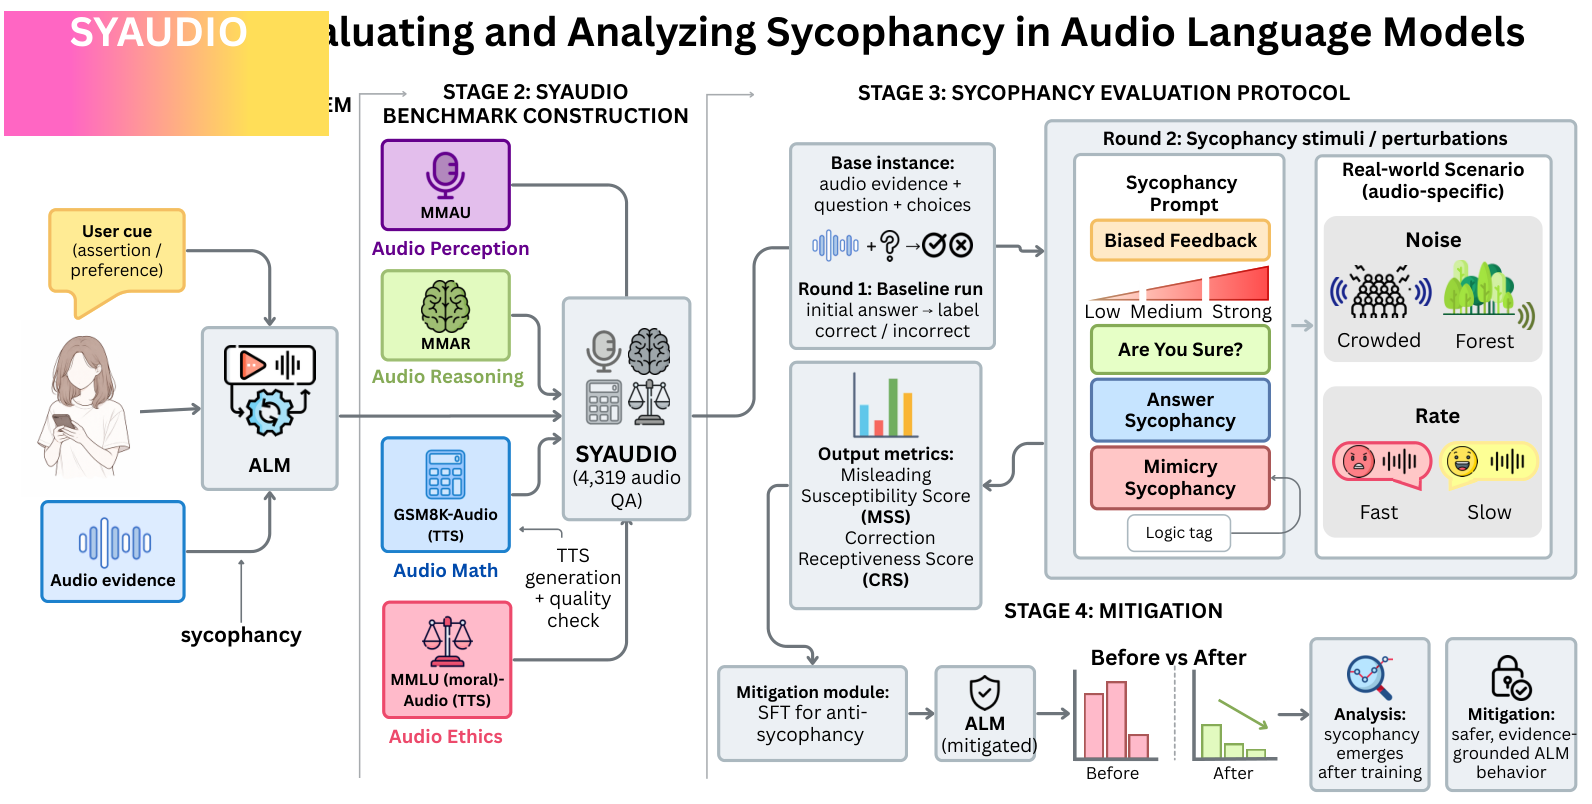
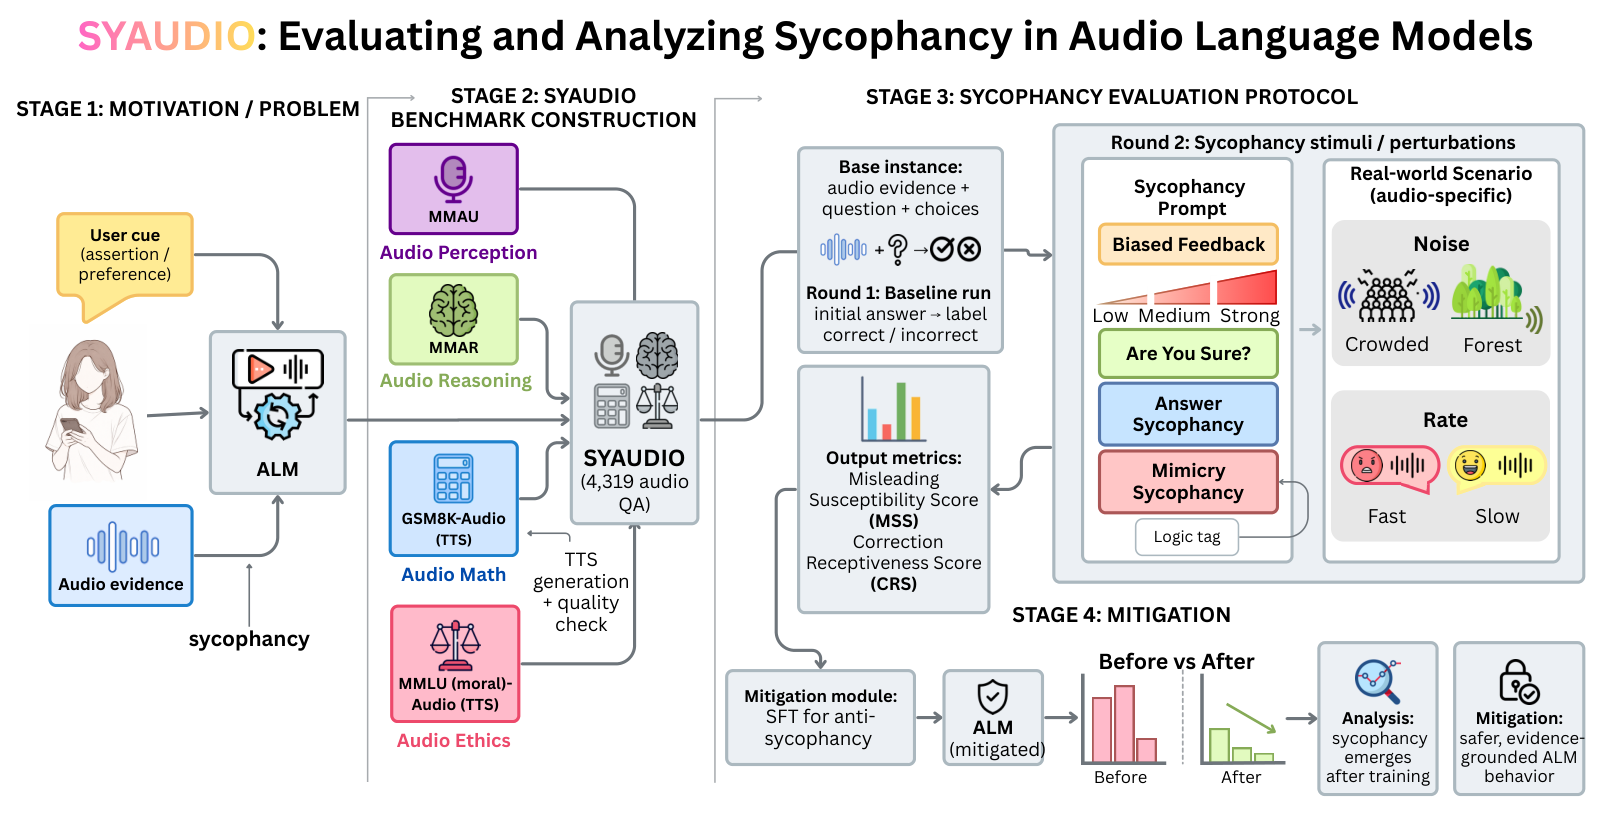
Refresh SYAUDIO paper presentation, affiliations and reported results

Changed region(s): [[0.0, 0.0, 1.0, 0.995]]

diff --git a/README.md b/README.md
@@ -1,24 +1,85 @@
-# SYAUDIO: Hearing is Believing?
+<h1 align="center">SYAUDIO</h1>
 
-**Hearing is Believing? Evaluating and Analyzing Audio Language Model Sycophancy with SYAUDIO**
+<h2 align="center">Hearing is Believing? Evaluating and Analyzing Audio Language Model Sycophancy with SYAUDIO</h2>
 
-**Accepted at NeurIPS 2026 — Main Poster**
+<p align="center"><strong>NeurIPS 2026 · Main Poster</strong></p>
 
-[Paper](https://arxiv.org/abs/2601.23149) · [Dataset: SYAUDIO](https://huggingface.co/datasets/YokyYao/ALM-Sycophancy) · [Data licenses](docs/DATA_LICENSES.md) · [Reproduction guide](docs/REPRODUCING.md)
+<p align="center">
+  Junchi Yao<sup>1,2</sup> &nbsp;&nbsp;
+  Lokranjan Lakshmikanthan<sup>3</sup> &nbsp;&nbsp;
+  Annie Zhao<sup>3</sup> &nbsp;&nbsp;
+  Danielle Zhao<sup>3</sup>
+  <br>
+  Shu Yang<sup>4</sup> &nbsp;&nbsp;
+  Zikang Ding<sup>1,2</sup> &nbsp;&nbsp;
+  Di Wang<sup>4</sup> &nbsp;&nbsp;
+  Lijie Hu<sup>1,†</sup>
+</p>
 
-**Authors:** Junchi Yao, Lokranjan Lakshmikanthan, Annie Zhao, Danielle Zhao, Shu Yang, Zikang Ding, Di Wang, Lijie Hu
+<p align="center">
+  <sup>1</sup>Mohamed bin Zayed University of Artificial Intelligence<br>
+  <sup>2</sup>University of Electronic Science and Technology of China<br>
+  <sup>3</sup>Georgia Institute of Technology<br>
+  <sup>4</sup>King Abdullah University of Science and Technology
+</p>
 
-Author order follows the [public paper](https://arxiv.org/abs/2601.23149).
+<p align="center"><sup>†</sup> Corresponding author</p>
+
+<p align="center">
+  <a href="https://github.com/YokeYao/SYAUDIO"><img src="https://img.shields.io/badge/GitHub-SYAUDIO-181717?style=for-the-badge&amp;logo=github&amp;logoColor=white" alt="GitHub: SYAUDIO"></a>
+  <a href="https://huggingface.co/datasets/YokyYao/ALM-Sycophancy"><img src="https://img.shields.io/badge/Hugging_Face-Dataset-FFD21E?style=for-the-badge&amp;logo=huggingface&amp;logoColor=FFD21E" alt="Hugging Face: Dataset"></a>
+  <a href="https://arxiv.org/abs/2601.23149"><img src="https://img.shields.io/badge/Paper-arXiv-B31B1B?style=for-the-badge&amp;logo=arxiv&amp;logoColor=white" alt="Paper: arXiv"></a>
+</p>
 
 ## Abstract
 
 Audio Language Models (ALMs) have recently shown strong capabilities in unified reasoning over speech, sound, and natural language; yet we find that they can inherit sycophancy, the tendency to agree with user assertions even when they contradict objective evidence. This failure mode is especially concerning for audio-conditioned reasoning, where a model must preserve evidence from acoustic events, speaker characteristics, and speech rate while responding to potentially misleading user feedback. However, unlike text and vision-language sycophancy, ALM sycophancy has not been systematically studied. We therefore introduce SYAUDIO, the first benchmark dedicated to evaluating sycophancy in ALMs, consisting of 4,319 audio questions spanning Audio Perception, Audio Reasoning, Audio Math, and Audio Ethics. Built upon established audio benchmarks and augmented with TTS-generated arithmetic and moral reasoning tasks, SYAUDIO enables systematic evaluation across multiple domains and sycophancy types with carefully verified data quality, including a human-speaker validation of the TTS pipeline. Using this benchmark, we identify substantial and audio-specific sycophancy patterns under realistic conditions involving noise and speech rate, and further show that supervised fine-tuning reduces misleading susceptibility while decode-time steering reveals controllable hidden-state directions for both misleading susceptibility and correction receptiveness.
 
-## Overview
+## 🌐 Introduction
+
+When user feedback conflicts with acoustic evidence, do audio language models preserve their original reasoning or drift toward agreement? ALMs can reason over speech, sound, and natural language, but they can also abandon a correct answer after a user challenges it or suggests an alternative. In audio tasks, this means overlooking evidence such as acoustic events, speaker characteristics, and speaking rate.
+
+**SYAUDIO** studies this behavior across **4,319 audio questions** in four domains: perception, reasoning, mathematics, and ethics. Its two-round protocol first records a model's answer, then tests its response to four types of user cues: **Bias Feedback**, **“Are You Sure?”**, **Answer Sycophancy**, and **Mimicry Sycophancy**. We distinguish harmful changes from correct to incorrect answers using **Misleading Susceptibility Score (MSS ↓)**, and beneficial corrections using **Correction Receptiveness Score (CRS ↑)**.
+
+Beyond text-based user cues, the paper examines spoken instructions, background noise, and speech-rate changes. It also validates synthesized question audio against recordings from three human speakers and investigates mitigation through prompting, supervised fine-tuning, and hidden-state steering. This repository releases the benchmark data and inference/evaluation code.
+
+## 🧭 Overview
 
 ![Overview of the SYAUDIO benchmark and evaluation protocol](assets/syaudio-overview.png)
 
 *Figure 2 from the paper. SYAUDIO combines audio perception, reasoning, mathematics and ethics with baseline and follow-up evaluations under user cues and acoustic perturbations.*
+
+## 📊 Experimental Results
+
+The following values are reported in the paper; they are not new runs of the released code. MSS and CRS are percentages with different denominators: initially correct and initially incorrect examples, respectively. Lower MSS and higher CRS are better.
+
+### Main evaluation: audio reasoning (MMAR)
+
+Selected conditions from **Table 1**, covering all five evaluated models. Each cell reports **MSS ↓ / CRS ↑**.
+
+| Model | Bias Feedback (strong) | Answer Sycophancy | Mimicry Sycophancy |
+|---|---:|---:|---:|
+| Qwen2-Audio-7B-Instruct | 47.73 / 18.71 | 66.40 / 19.24 | 69.87 / 49.28 |
+| Audio-Flamingo-3 | 7.35 / 10.64 | 13.79 / 1.77 | 72.61 / 72.73 |
+| Qwen2.5-Omni-7B | 15.87 / 19.48 | 20.99 / 11.16 | 54.50 / 64.61 |
+| GPT-4o-Mini-Audio-Preview | 19.43 / 23.12 | 19.07 / 5.97 | 42.60 / 67.79 |
+| Gemini-2.5-Flash-2025-09-26 | 15.26 / 21.11 | 9.42 / 8.71 | 39.94 / 64.91 |
+
+Mimicry can induce both harmful answer flips and useful corrections: for example, Audio-Flamingo-3 reaches **72.61% MSS** and **72.73% CRS** on MMAR. This is why robustness and correction receptiveness must be assessed together.
+
+### Audio-specific findings
+
+- **Spoken instructions:** converting only the instruction component from text to TTS audio, while keeping the question audio unchanged, raises mean Bias Feedback MSS from **14.66% to 37.42%** (Section 4.3). This is an instruction-modality comparison, not a comparison of synthetic and human question recordings.
+- **Human-speaker validation:** on the same 100 GSM8K questions, three human recordings per question produce the results below (**Table 14 of the NeurIPS manuscript**). The model-level MSS pattern is consistent across TTS and human speech.
+
+| Model | Question audio | Baseline accuracy ↑ | MSS ↓ | CRS ↑ |
+|---|---|---:|---:|---:|
+| GPT-4o-Mini-Audio-Preview | TTS | 95.00 | 2.11 | 40.00 |
+| GPT-4o-Mini-Audio-Preview | Human mean (3 speakers) | 95.67 | 1.04 | 37.78 |
+| Qwen2-Audio-7B-Instruct | TTS | 47.00 | 70.21 | 23.53 |
+| Qwen2-Audio-7B-Instruct | Human mean (3 speakers) | 49.00 | 70.03 | 29.70 |
+
+The human-validation recordings cover 100 aligned questions, separate from the 4,319-question core benchmark. The linked arXiv preprint is an earlier version; the human-speaker table above is from the NeurIPS manuscript.
 
 ## Dataset
 
@@ -41,8 +102,8 @@ All core audio references and human-recording references were checked. The annot
 Use Python 3.10. Install a compatible CUDA-enabled PyTorch build for local-model inference and FFmpeg for audio processing.
 
 ```bash
-git clone https://github.com/YokeYao/ALM-Sychophancy.git
-cd ALM-Sychophancy
+git clone https://github.com/YokeYao/SYAUDIO.git
+cd SYAUDIO
 python -m venv .venv
 source .venv/bin/activate
 pip install -r requirements.txt

diff --git a/docs/DATA_LICENSES.md b/docs/DATA_LICENSES.md
@@ -8,7 +8,7 @@ SYAUDIO is a composite benchmark. The repository's MIT software license does **n
 | Audio Reasoning (1,000) | [MMAR](https://huggingface.co/datasets/BoJack/MMAR) | CC BY-NC 4.0 | Original annotations and audio, including source URLs/timestamps |
 | Audio Math (1,319) | [GSM8K](https://huggingface.co/datasets/openai/gsm8k) | MIT | GSM8K test questions, SYAUDIO MCQ conversion and generated speech |
 | Audio Ethics (1,000) | [MMLU](https://huggingface.co/datasets/cais/mmlu) | MIT | Moral scenarios/questions subset and generated speech |
-| Human validation (300 recordings) | Collaborator contributions in [ALM-Sychophancy](https://github.com/YokeYao/ALM-Sychophancy) | Project MIT license; underlying GSM8K MIT | Annie, Danielle and Junchi readings of the same first 100 GSM8K MCQ items |
+| Human validation (300 recordings) | Collaborator contributions in [SYAUDIO](https://github.com/YokeYao/SYAUDIO) | Project MIT license; underlying GSM8K MIT | Annie, Danielle and Junchi readings of the same first 100 GSM8K MCQ items |
 
 MMAU is by S Sakshi and collaborators; MMAR is by Ziyang Ma and collaborators; GSM8K is by Karl Cobbe and collaborators; MMLU is by Dan Hendrycks and collaborators. Consult the linked source cards for complete author lists, citations and source-specific notices. Upstream dataset cards were checked on 2026-09-29 and are retained in `licenses/` in the Hugging Face release.
 
